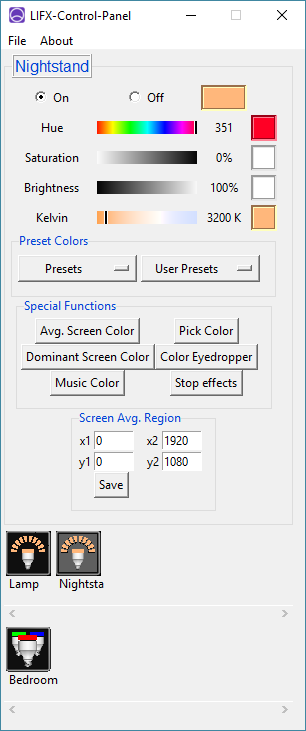
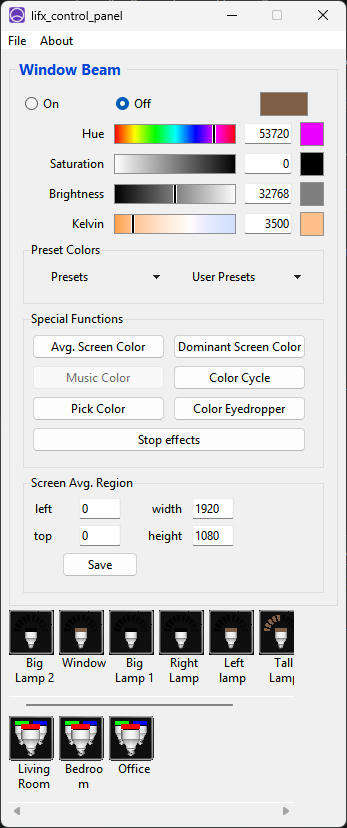
Bump version to 3.1.0 and update build date; modify screenshot asset

diff --git a/lifx_control_panel/_constants.py b/lifx_control_panel/_constants.py
@@ -1,4 +1,4 @@
-VERSION = "3.0.0"
-BUILD_DATE = "2026-07-23T19:40:28.488644"
+VERSION = "3.1.0"
+BUILD_DATE = "2026-07-28T12:59:11.102849"
 AUTHOR = "Sawyer McLane"
 DEBUGGING = False
